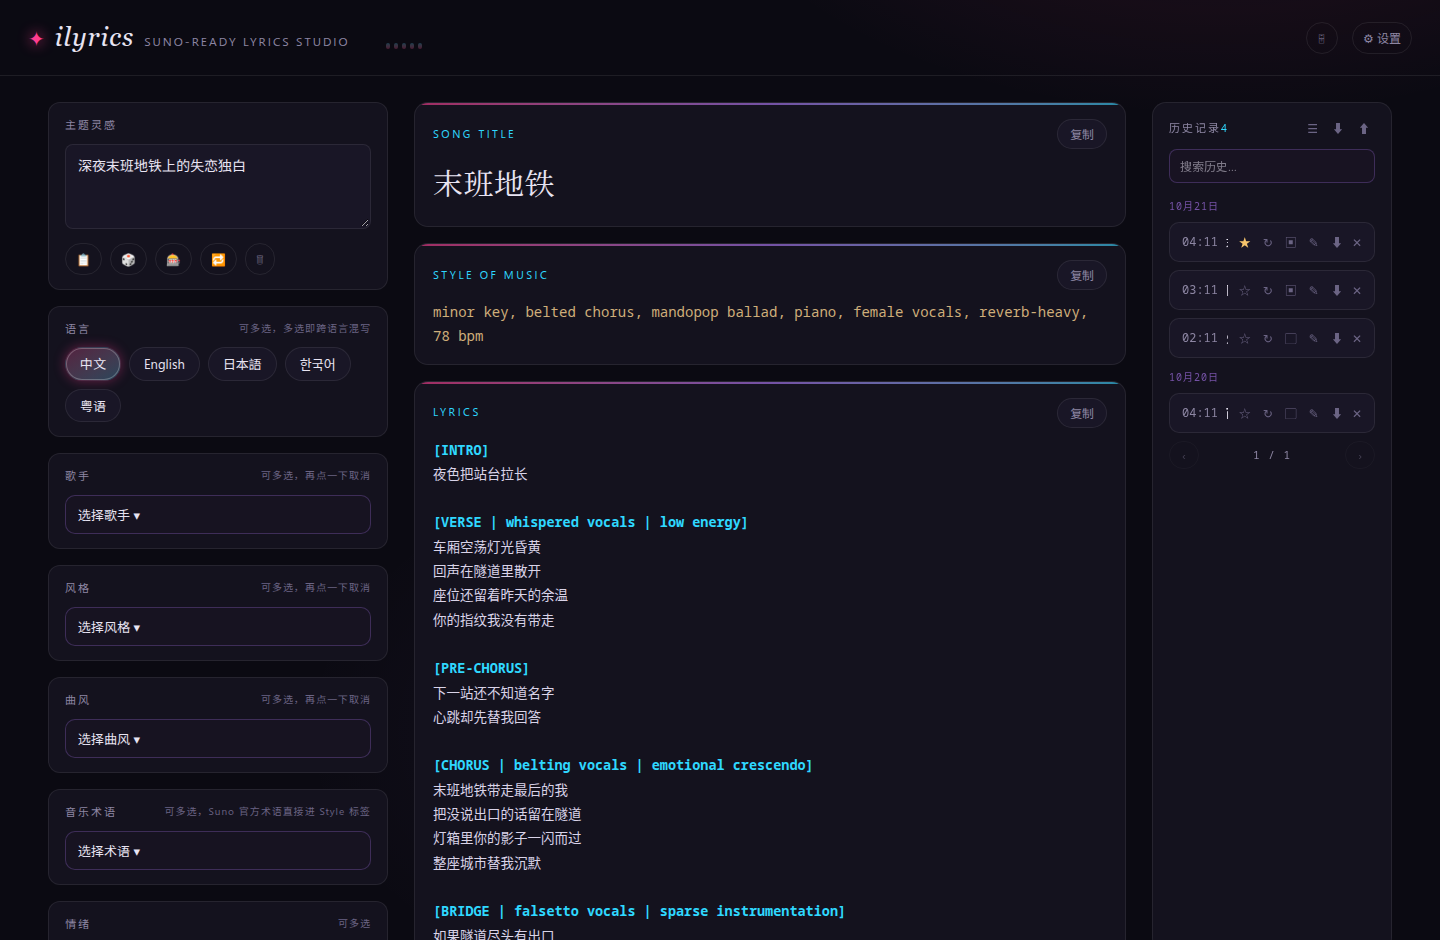
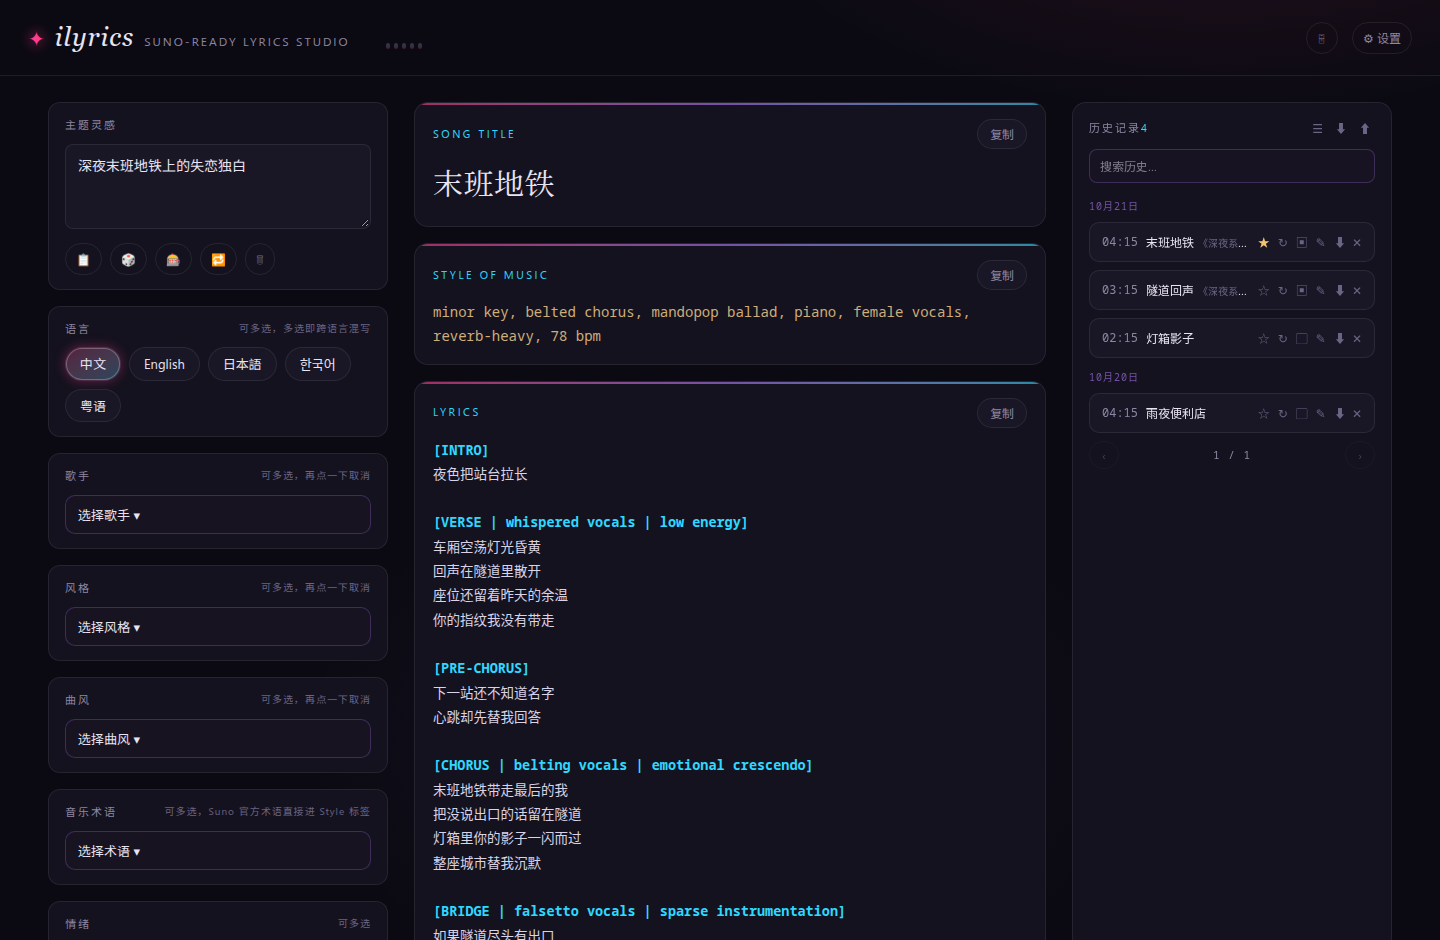
Widen history column to 320px + tighten action buttons so titles/album badges fill the frame

diff --git a/tailwind.src.css b/tailwind.src.css
@@ -78,7 +78,7 @@
 
 @layer components {
   .layout {
-    @apply mx-auto grid max-w-[1400px] grid-cols-[340px_1fr_240px] gap-[26px] px-[28px] pt-[26px] pb-[60px];
+    @apply mx-auto grid max-w-[1400px] grid-cols-[340px_1fr_320px] gap-[26px] px-[28px] pt-[26px] pb-[60px];
     @apply max-[900px]:grid-cols-1 max-[900px]:px-4 max-[900px]:pt-[18px] max-[900px]:pb-[50px];
   }
   .console { @apply flex flex-col gap-4; }
@@ -199,8 +199,8 @@
   .hist-item .name { @apply min-w-0 flex-1 overflow-hidden text-ellipsis whitespace-nowrap; }
   .hist-item .del { @apply shrink-0 text-dim-2; }
   .hist-item .del:hover { @apply text-neon-a; }
-  .hist-item .acts { @apply flex shrink-0 items-center gap-[6px]; }
-  .hbtn { @apply cursor-pointer border-none bg-transparent px-[3px] py-[2px] text-[12px] text-dim-2; }
+  .hist-item .acts { @apply flex shrink-0 items-center gap-[4px]; }
+  .hbtn { @apply cursor-pointer border-none bg-transparent px-[2px] py-[2px] text-[12px] text-dim-2; }
   .hbtn:hover { @apply text-neon-b; }
   .hbtn.fav.on { @apply text-gold-2; }
 }

diff --git a/tailwind.css b/tailwind.css
@@ -327,7 +327,7 @@
     margin-inline: auto;
     display: grid;
     max-width: 1400px;
-    grid-template-columns: 340px 1fr 240px;
+    grid-template-columns: 340px 1fr 320px;
     gap: 26px;
     padding-inline: 28px;
     padding-top: 26px;
@@ -944,14 +944,14 @@
     display: flex;
     flex-shrink: 0;
     align-items: center;
-    gap: 6px;
+    gap: 4px;
   }
   .hbtn {
     cursor: pointer;
     --tw-border-style: none;
     border-style: none;
     background-color: transparent;
-    padding-inline: 3px;
+    padding-inline: 2px;
     padding-block: 2px;
     font-size: 12px;
     color: var(--color-dim-2);
